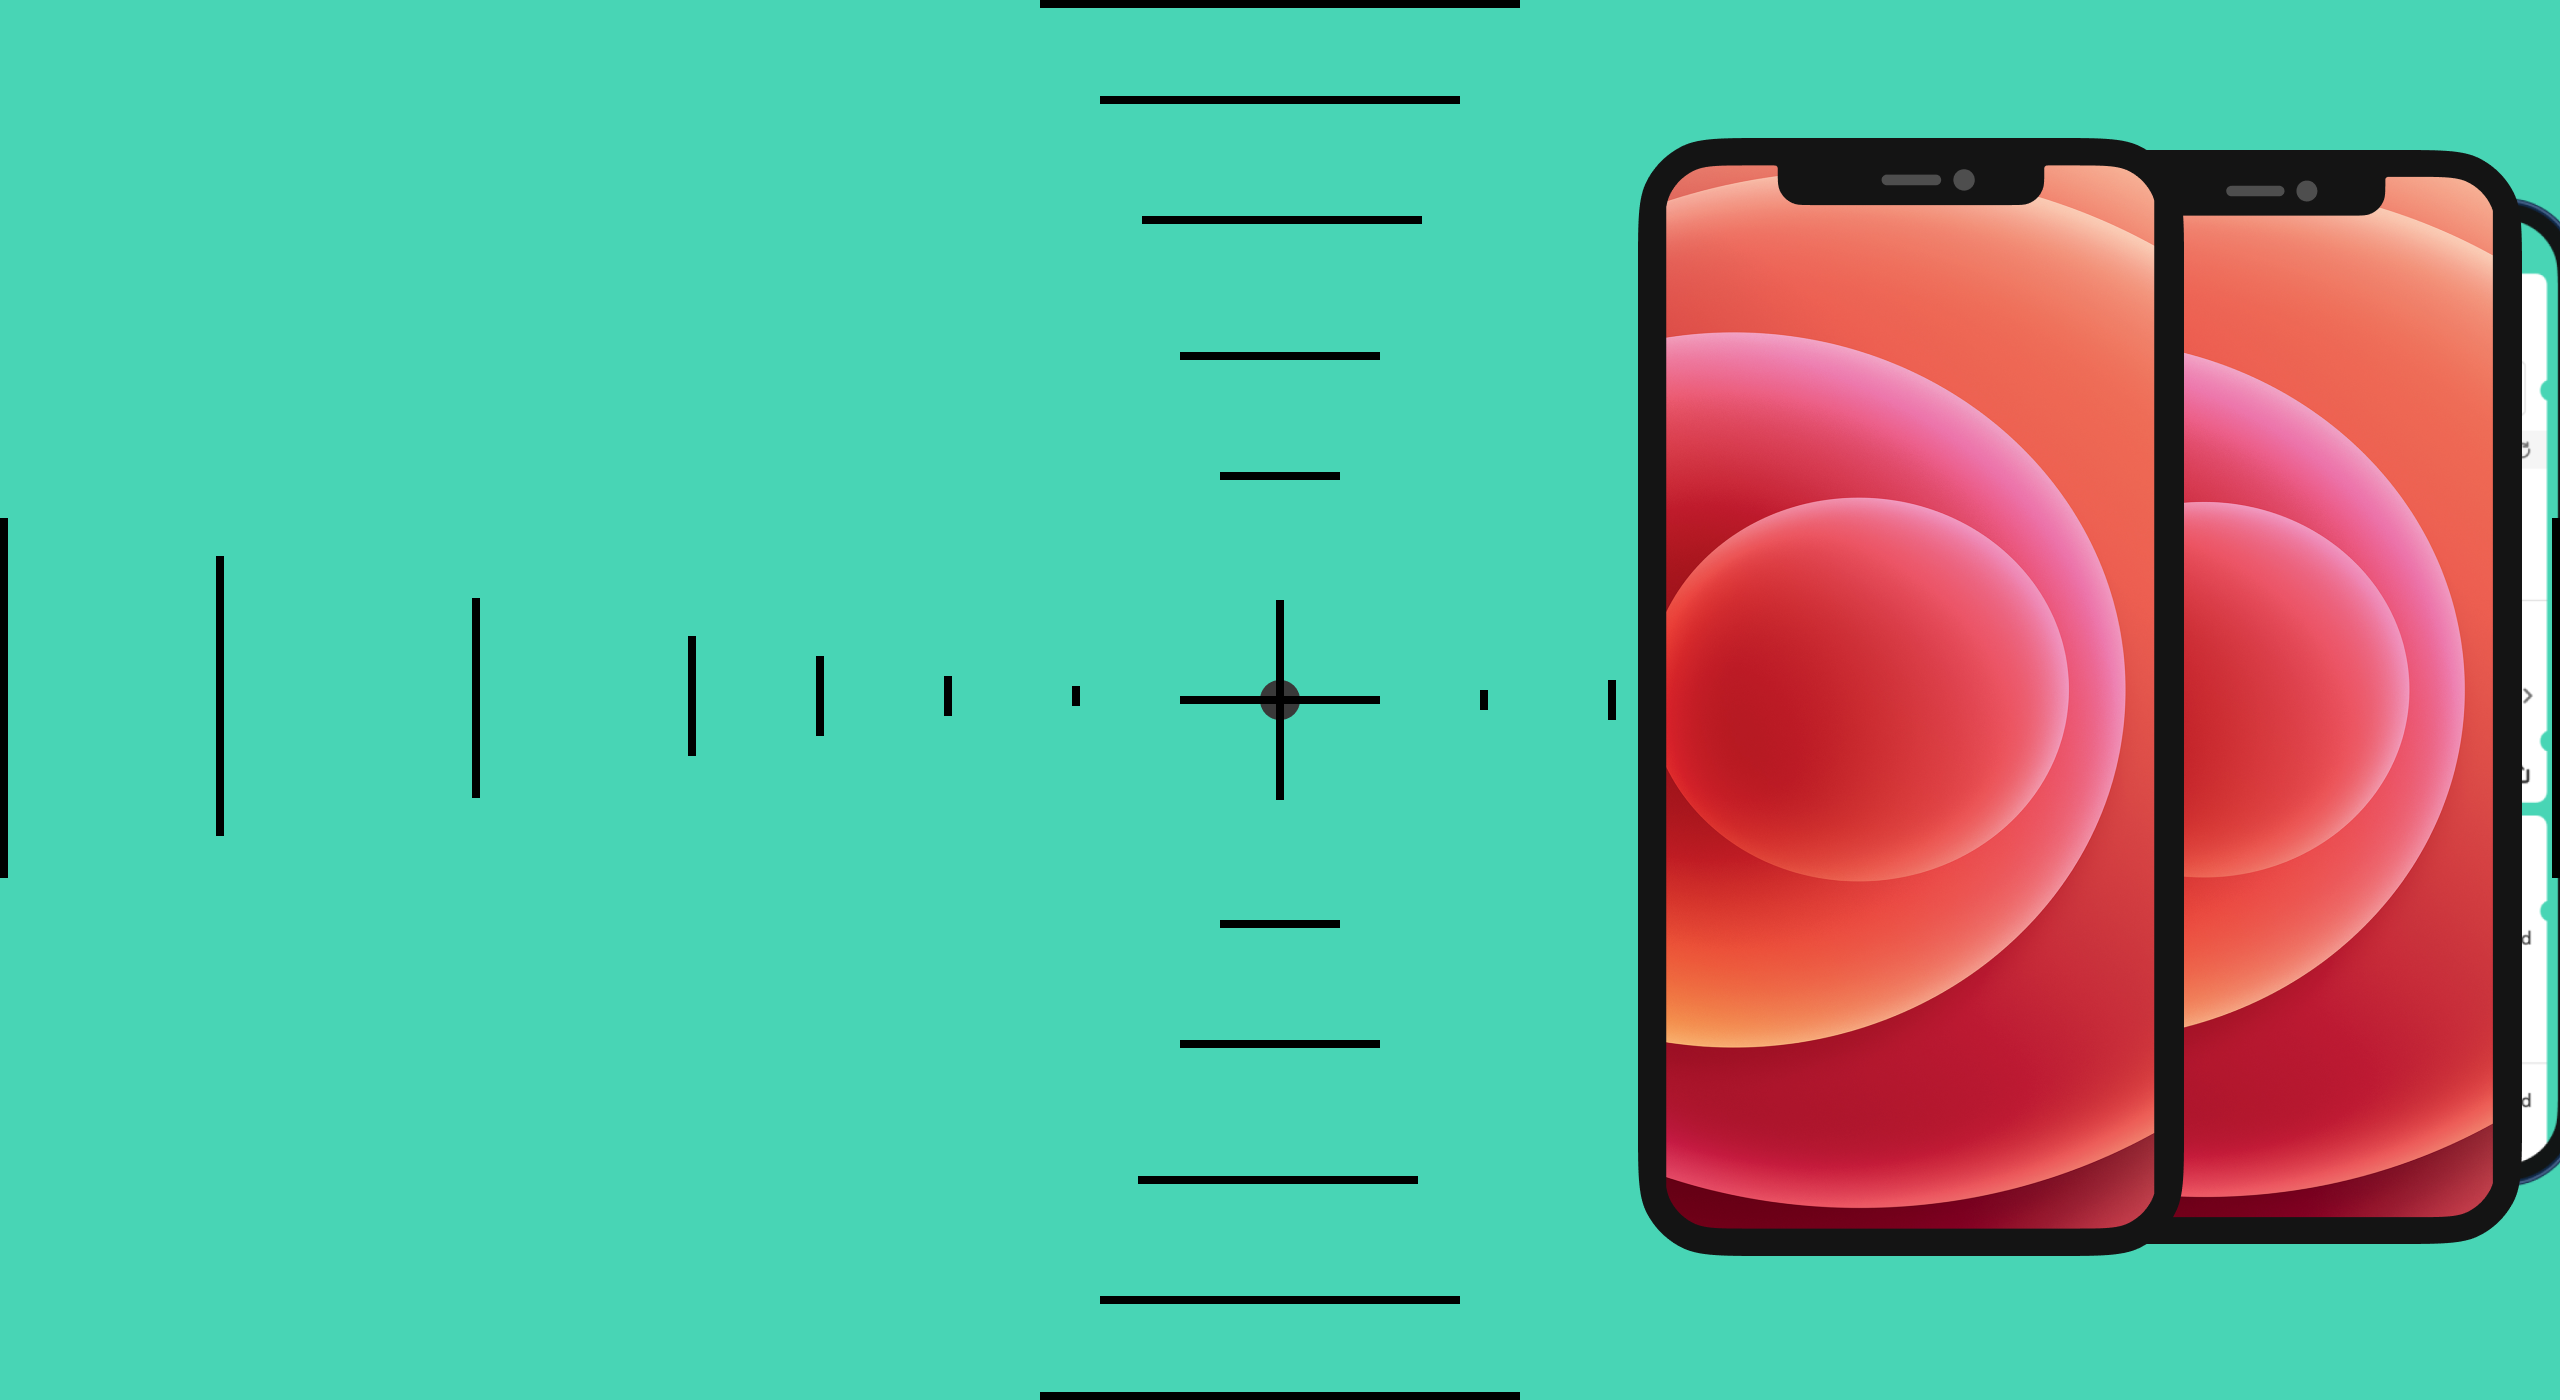
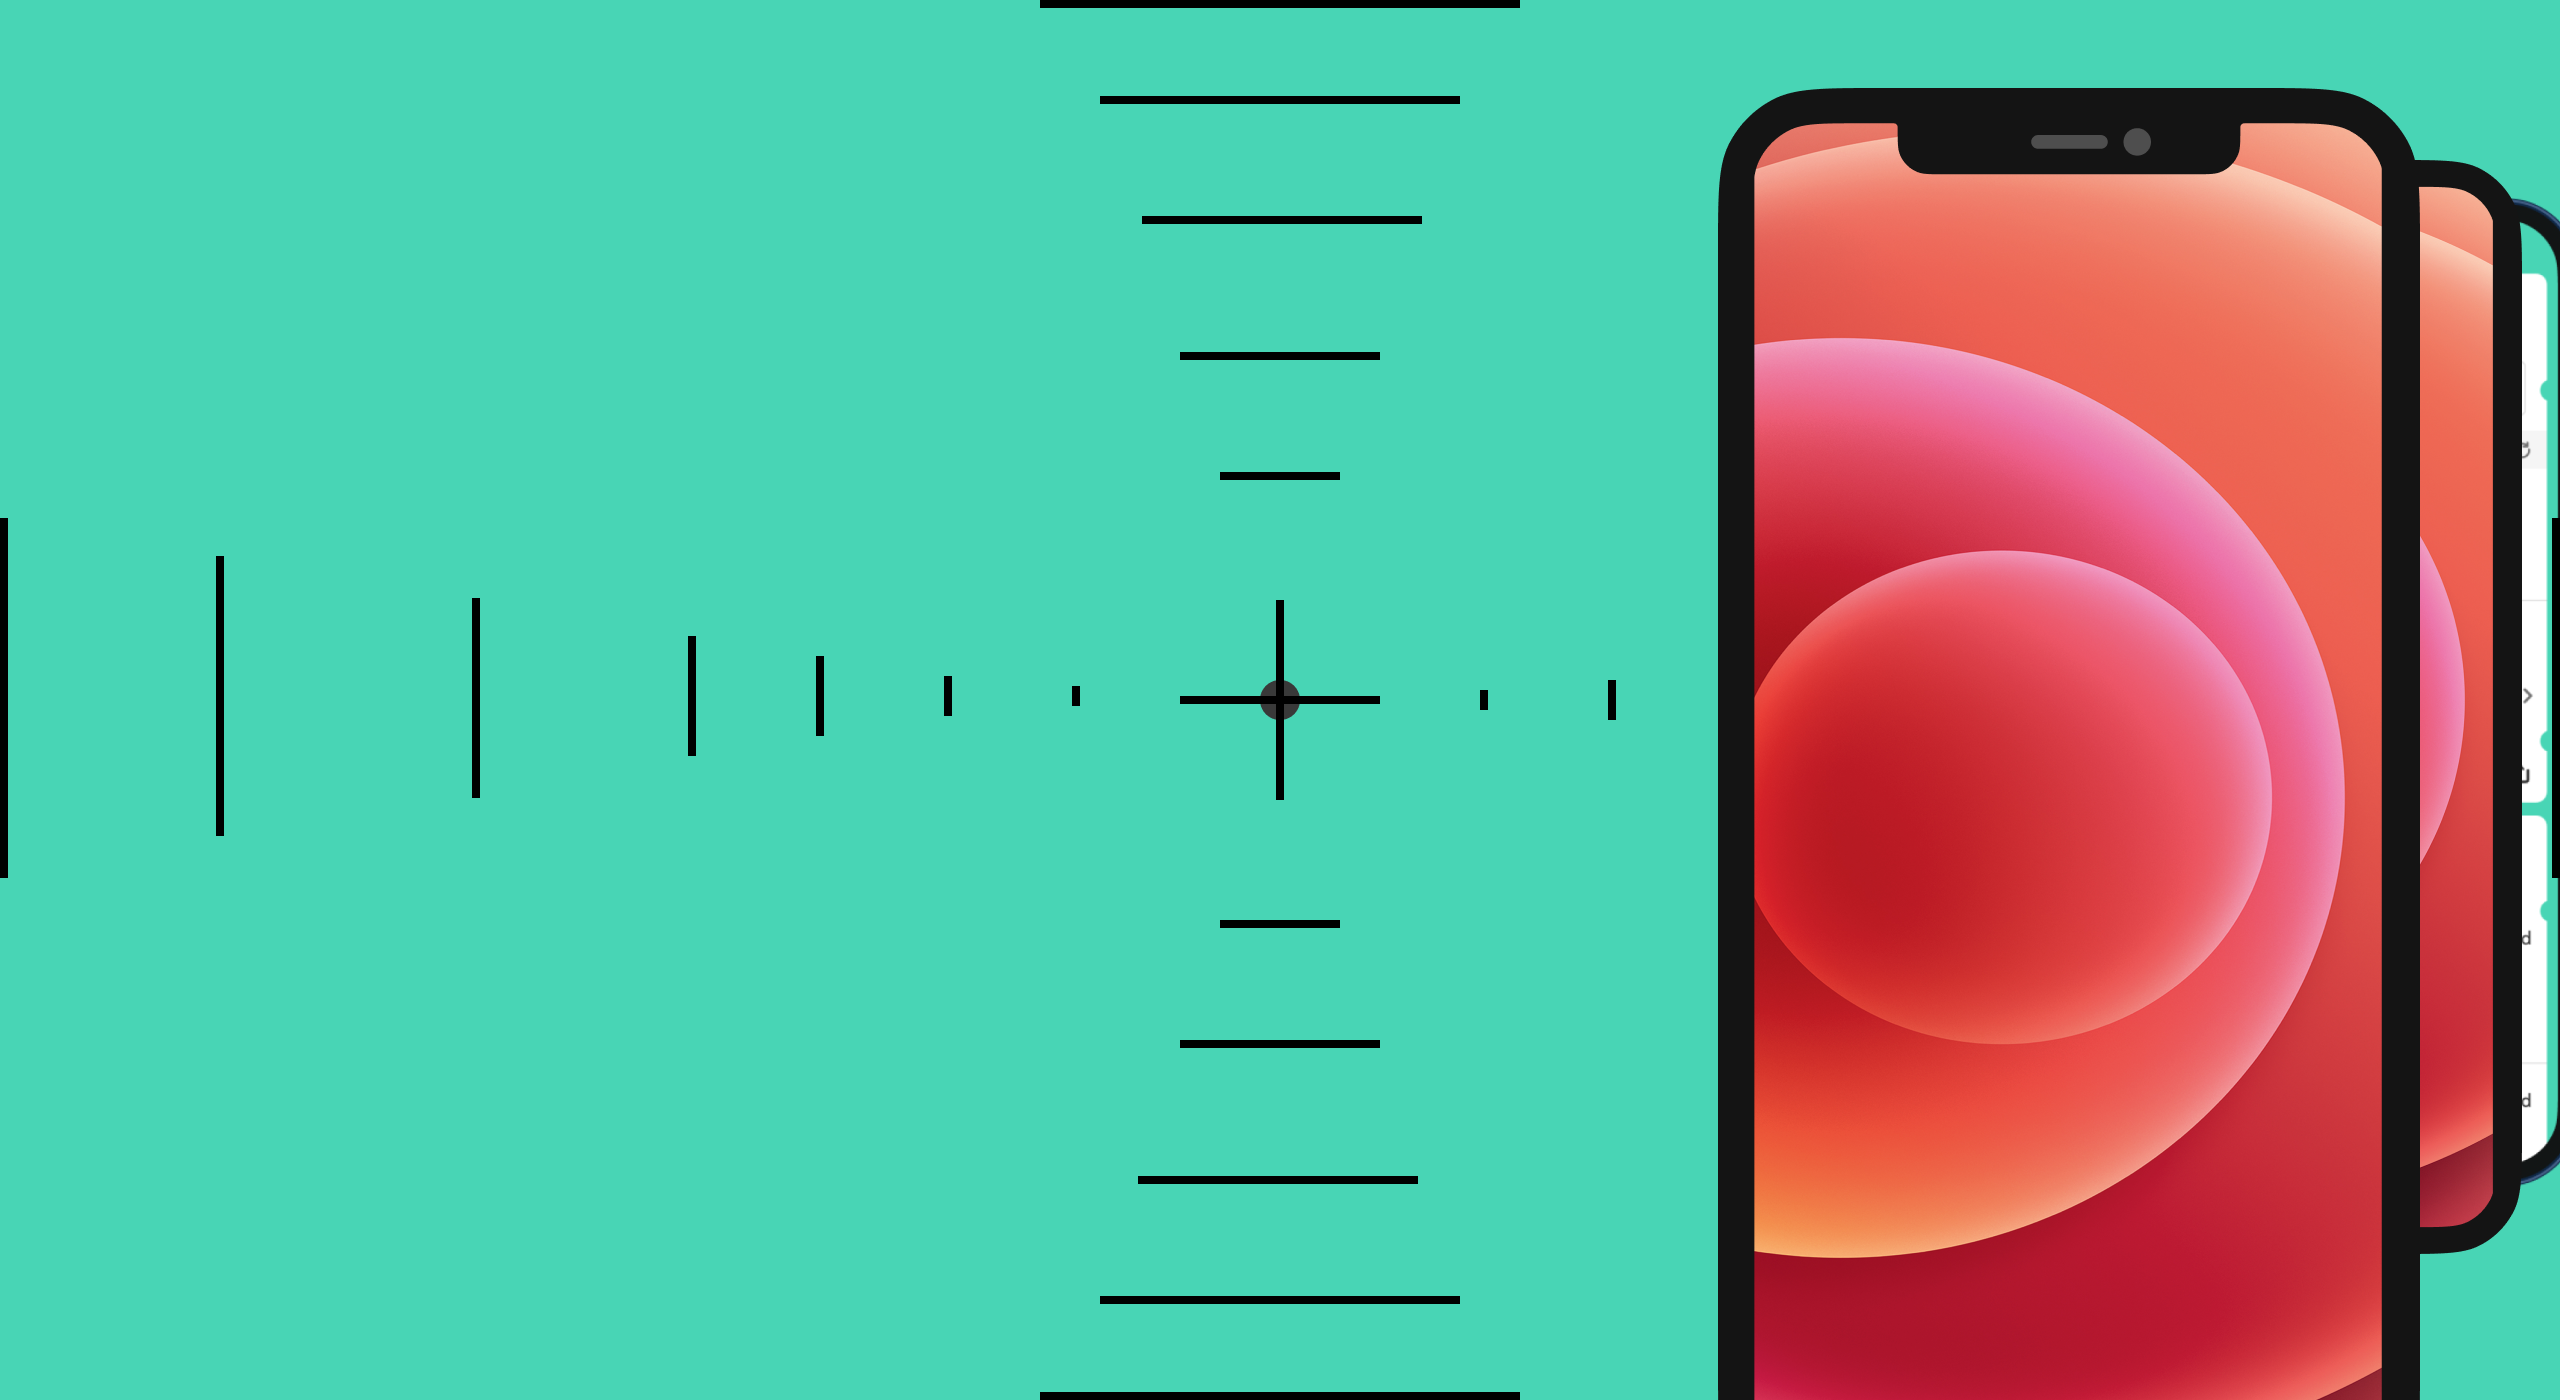
home carousel graphics

Changed region(s): [[0.625, 0.0614, 1.0, 1.0]]

diff --git a/_sass/_media.scss b/_sass/_media.scss
@@ -76,6 +76,10 @@
         top: 5%;
       }
     }
+    .iOS-device {
+      width: 90%;
+      top: 80vw;
+    }
   }
   #carouselSainsburys .cs-logo.sainsburys, #carouselTrainline .cs-logo.trainline, #carouselJustEat .cs-logo.justeat {
     width: 120px;
@@ -213,9 +217,29 @@
         font-size: 0.9rem;
       }
   }
-
-  .color-block .center-align {
-    top: 40%;
+  .cs.carousel {
+    .iOS-device {
+      width: 90%;
+      top: 74vw;
+    }
+  }
+  .sheet .cs {
+    .color-block {
+      padding: 20px;
+      padding-top: 4vh;
+    }
+    .center-align {
+      top: 0;
+      transform: translate(0, 0%);
+    }
+  }
+  #carouselRecliningWorm {
+    #slide-1.color-block {
+      background-image: url('../images/projects/banners/case-study-cards/cs-card-recliningworm-mobile.png');
+    }
+    #slide-2.color-block {
+      background-image: url('../images/projects/banners/case-study-cards/cs-card-recliningworm-mobile.png');
+    }
   }
 
 
@@ -250,6 +274,15 @@
   .color-block .center-align {
     top: 50%;
   }
+  .cs.carousel {
+    .center-align {
+      margin-top: -20px;
+      position: absolute;
+      top: 50%;
+      -ms-transform: translate(0, -50%);
+      transform: translate(0, -50%);
+    }
+  }
 
 
   #slide-1.color-block, #slide-2.color-block {
@@ -258,20 +291,20 @@
     background-position: center;
   }
 
-  #carouselSainsburys {
-    #slide-1.color-block {
-      background-image: url('../images/projects/banners/case-study-cards/cs-card-sainsburys-desktop.png');
-    }
-    #slide-2.color-block {
-      background-image: url('../images/projects/banners/case-study-cards/cs-card-sainsburys-desktop.png');
-    }
-  }
   #carouselTrainline {
     #slide-1.color-block {
       background-image: url('../images/projects/banners/case-study-cards/cs-card-trainline-desktop.png');
     }
     #slide-2.color-block {
       background-image: url('../images/projects/banners/case-study-cards/cs-card-trainline-desktop.png');
+    }
+  }
+  #carouselRecliningWorm {
+    #slide-1.color-block {
+      background-image: url('../images/projects/banners/case-study-cards/cs-card-recliningworm-desktop.png');
+    }
+    #slide-2.color-block {
+      background-image: url('../images/projects/banners/case-study-cards/cs-card-recliningworm-desktop.png');
     }
   }
 

diff --git a/_sass/_case-study-carousels.scss b/_sass/_case-study-carousels.scss
@@ -13,7 +13,7 @@
     font-size: clamp(144px, 18vw, 328px);
     letter-spacing: 0.2vw;
     line-height: clamp(106px, 13.1vw, 236px);
-    margin-top: -16px;
+    margin-top: -2.2vw;
     margin-bottom: 24px;
   }
   .center-align {
@@ -59,6 +59,17 @@
       0%  {-webkit-transform: rotate(0deg);}
       100% {-webkit-transform: rotate(360deg);}
     }
+  }
+
+  .iOS-device {
+    background: url('../images/projects/banners/case-study-cards/test-device.png')left top no-repeat;
+    position: absolute;
+    bottom: 0px;
+    right: 4.1vw;
+    height: 94%;
+    width: 29vw;
+    background-size: 100%;
+    z-index: 10;
   }
 
 }

diff --git a/_sass/_base.scss b/_sass/_base.scss
@@ -166,13 +166,6 @@ a.navbar-brand:hover {
 .color-block {
   color: white;
 
-  .center-align {
-    margin-top: -20px;
-    position: absolute;
-    top: 50%;
-    -ms-transform: translate(0, -50%);
-    transform: translate(0, -50%);
-  }
   h2 a {
     font-weight: normal;
   }
@@ -188,6 +181,7 @@ a.navbar-brand:hover {
   //   text-decoration: underline;
   // }
 }
+
 
 // Case study
 

diff --git a/_includes/project-sheet-carousel.html b/_includes/project-sheet-carousel.html
@@ -50,6 +50,7 @@
   <div class="carousel-inner">
     <div class="carousel-item active">
       <div id="slide-1" class="row color-block">
+        <div class="iOS-device"></div>
         <div class="col">
           <div class="center-align">
             <div class="cs-logo trainline"></div>
